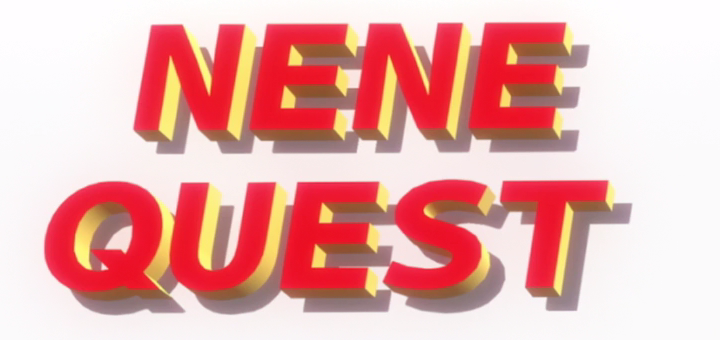
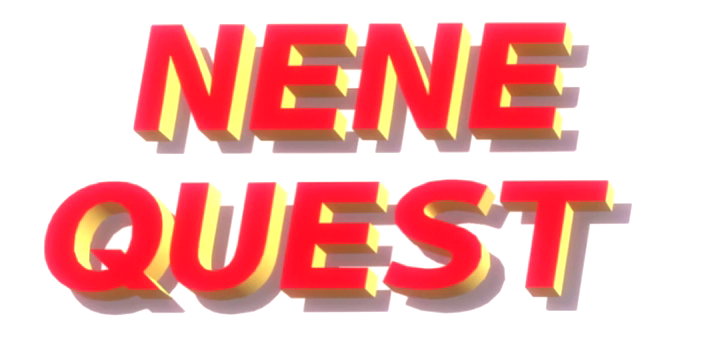
Fix character encoding for the menu + refactoring

diff --git a/nenequest/src/system/menu.cpp b/nenequest/src/system/menu.cpp
@@ -18,7 +18,6 @@ short int Menu::validateMenu(short int menuIndex) {
 
 int Menu::run(RenderWindow &app) {
 	Event event;
-	bool running = true;
 	int menuIndex = 0;
 
 	// ---------------- Logo ----------------
@@ -29,6 +28,7 @@ int Menu::run(RenderWindow &app) {
     Sprite logo(logoTex);
     logo.setOrigin(Vector2f(logoTex.getSize().x/2, logoTex.getSize().y/2));
     logo.setPosition(app.getSize().x/2, app.getSize().y/2);
+	logo.setScale(1.45, 1.45);
     logo.move(0, -200);
 
     Font font;
@@ -38,25 +38,20 @@ int Menu::run(RenderWindow &app) {
     // ---------------- Menu ----------------
     vector<Text*> menuButtons;
 
-    Text onePlayerText;
-    onePlayerText.setString(L"ひとりであそぶ");
+    Text onePlayerText(L"\u3072\u3068\u308A\u3067\u3042\u305D\u3076", font);
     menuButtons.push_back(&onePlayerText);
 
-    Text twoPlayerText;
-    twoPlayerText.setString(L"ふたりであそぶ");
+    Text twoPlayerText(L"\u3075\u305F\u308A\u3067\u3042\u305D\u3076", font);
     menuButtons.push_back(&twoPlayerText);
 
-    Text exitText;
-    exitText.setString(L"おわる");
+    Text exitText(L"\u304A\u308F\u308B", font);
     menuButtons.push_back(&exitText);
 
     for (unsigned int i=0; i<menuButtons.size(); i++) {
         Text* t = menuButtons[i];
-        t->setFont(font);
         t->setCharacterSize(this->TEXT_SIZE);
         t->setPosition(logo.getPosition());
-        t->move(-300, 300);
-        t->move(0, i*100);
+        t->move(-300, 300+i*100);
         t->setFillColor(menuTextColor);
         t->setStyle(Text::Bold);
     }
@@ -72,7 +67,7 @@ int Menu::run(RenderWindow &app) {
     selector.setPosition(onePlayerText.getPosition());
 
     // ---------------- Main Loop ----------------
-	while(running) {
+	while(true) {
 
         Vector2i localPosition = Mouse::getPosition(app);
 
@@ -109,7 +104,7 @@ int Menu::run(RenderWindow &app) {
                 return validateMenu(menuIndex);
 		}
 
-		app.clear(Color(252, 251, 253, 255));
+		app.clear(Color::White);
 		app.draw(logo);
 		app.draw(onePlayerText);
 		app.draw(twoPlayerText);
